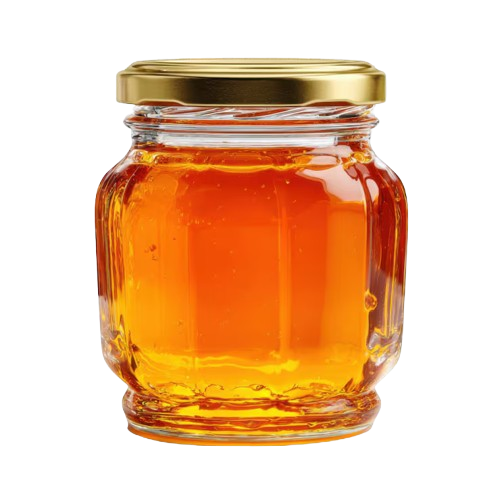
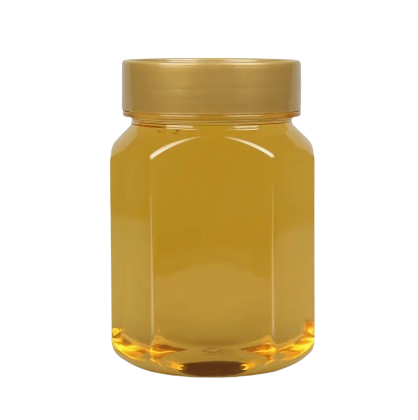
updates

diff --git a/src/presentation/components/PppSlides.vue b/src/presentation/components/PppSlides.vue
@@ -240,8 +240,15 @@ const isStaticGridPhoto = (slide, img) => Boolean(slide.staticPhotos || img.stat
         'ppp-feature__img--multi': slide.images?.length > 1,
         'ppp-feature__img--pair': slide.images?.length === 2,
         'ppp-feature__img--quad-fit': slide.quadImageFit,
+        'ppp-feature__img--pent-fit': slide.pentImageFit,
       }]">
-        <div v-if="slide.images?.length >= 4" class="ppp-feature__quad-grid">
+        <div v-if="slide.pentImageFit && slide.images?.length >= 5" class="ppp-feature__pent-grid">
+          <div v-for="(img, ii) in slide.images" :key="img.src" class="ppp-feature__pent-cell">
+            <img :src="img.src" :alt="img.caption || slide.title" class="ppp-feature__pent-img"
+              :style="{ objectPosition: img.objectPosition || 'center center' }">
+          </div>
+        </div>
+        <div v-else-if="slide.images?.length >= 4" class="ppp-feature__quad-grid">
           <div v-for="(img, ii) in slide.images" :key="img.src" class="ppp-feature__quad-cell">
             <img :src="img.src" :alt="img.caption || slide.title" class="ppp-feature__quad-img"
               :style="{ objectPosition: img.objectPosition || 'center center' }">
@@ -1350,6 +1357,73 @@ const isStaticGridPhoto = (slide, img) => Boolean(slide.staticPhotos || img.stat
   background: rgba(0, 0, 0, 0.2);
 }
 
+.ppp-feature__pent-grid {
+  display: grid;
+  grid-template-columns: repeat(6, minmax(0, 1fr));
+  grid-template-rows: 1.05fr 1fr;
+  gap: 0.35rem;
+  flex: 1 1 auto;
+  width: 100%;
+  height: 100%;
+  min-height: min(460px, 54vh);
+  padding: 0.35rem;
+  background: rgba(0, 0, 0, 0.2);
+  border-radius: 0.65rem;
+}
+
+.ppp-feature__pent-cell {
+  display: flex;
+  align-items: center;
+  justify-content: center;
+  min-width: 0;
+  min-height: 0;
+  background: rgba(255, 255, 255, 0.08);
+  border: 1px solid rgba(200, 160, 32, 0.25);
+  border-radius: 0.45rem;
+  overflow: hidden;
+}
+
+.ppp-feature__pent-cell:nth-child(1) {
+  grid-column: 1 / 4;
+  grid-row: 1;
+}
+
+.ppp-feature__pent-cell:nth-child(2) {
+  grid-column: 4 / 7;
+  grid-row: 1;
+}
+
+.ppp-feature__pent-cell:nth-child(3) {
+  grid-column: 1 / 3;
+  grid-row: 2;
+}
+
+.ppp-feature__pent-cell:nth-child(4) {
+  grid-column: 3 / 5;
+  grid-row: 2;
+}
+
+.ppp-feature__pent-cell:nth-child(5) {
+  grid-column: 5 / 7;
+  grid-row: 2;
+}
+
+.ppp-feature__pent-img {
+  width: 100%;
+  height: 100%;
+  object-fit: contain;
+  object-position: center center;
+  background: rgba(0, 0, 0, 0.48);
+  display: block;
+}
+
+.ppp-panel--feature .ppp-feature__img--pent-fit .ppp-feature__pent-img {
+  width: 88%;
+  height: 94%;
+  background: none;
+  object-fit: contain;
+}
+
 .ppp-feature__quad-grid {
   display: grid;
   grid-template-columns: repeat(2, minmax(0, 1fr));
@@ -1946,7 +2020,7 @@ const isStaticGridPhoto = (slide, img) => Boolean(slide.staticPhotos || img.stat
   background: rgba(200, 160, 32, 0.12);
   border: 1px solid rgba(200, 160, 32, 0.35);
   color: var(--gold-light);
-  font-size: 0.72rem;
+  font-size: 1rem;
   font-weight: 700;
   letter-spacing: 0.03em;
   text-transform: uppercase;

diff --git a/src/presentation/data/slides.js b/src/presentation/data/slides.js
@@ -398,7 +398,7 @@ export const slides = [
     id: "eva-compound",
     type: "feature-split",
     section: "products",
-    title: "EVA Compounds",
+    title: "We Produce: EVA Compounds",
     images: [
       {
         src: "/products/eva1.png",
@@ -453,8 +453,19 @@ export const slides = [
     id: "pvc-compound",
     type: "feature-split",
     section: "products",
-    title: "PVC Compounds",
+    title: "We Produce: PVC Compounds",
+    pentImageFit: true,
     images: [
+      {
+        src: "/products/transparent-pvc-granules.png",
+        caption: "Transparent PVC granules",
+        objectPosition: "center center",
+      },
+      {
+        src: "/products/blue-pvc-granules.png",
+        caption: "Blue PVC granules",
+        objectPosition: "center center",
+      },
       {
         src: "/pvc-2.png",
         caption: "PVC boots and footwear",
@@ -503,7 +514,7 @@ export const slides = [
     id: "rubber-compound",
     type: "feature-split",
     section: "products",
-    title: "Rubber Compound | Endure | TPR Compounds",
+    title: "We Produce: Rubber Compound | Endure | TPR Compounds",
     image: "/products/rubbercompound.png",
     features: [
       {
@@ -541,7 +552,7 @@ export const slides = [
     id: "filler-masterbatch",
     type: "feature-split",
     section: "products",
-    title: "Filler Masterbatches",
+    title: "We Produce: Filler Masterbatches",
     quadImageFit: true,
     images: [
       {
@@ -601,7 +612,7 @@ export const slides = [
     id: "masterbatch",
     type: "masterbatch-colors",
     section: "products",
-    title: "Color Masterbatches",
+    title: "We Produce: Color Masterbatches",
     subtitle: "A variety of colors, options, and shades are available.",
     images: [
       {

diff --git a/src/components/NavBar.vue b/src/components/NavBar.vue
@@ -105,6 +105,13 @@ const closeMenu = () => {
           Media
         </RouterLink>
 
+        <RouterLink to="/presentation" class="rounded-full px-4 py-2 text-sm font-semibold transition-all duration-200" :class="route.path === '/presentation'
+            ? 'bg-slate-900 text-white shadow-sm'
+            : 'text-slate-700 hover:bg-slate-100 hover:text-slate-900'
+          ">
+          Presentation
+        </RouterLink>
+
         <RouterLink :to="navItems[3].to"
           class="rounded-full px-4 py-2 text-sm font-semibold transition-all duration-200" :class="route.path === navItems[3].to
               ? 'bg-slate-900 text-white shadow-sm'
@@ -192,6 +199,13 @@ const closeMenu = () => {
               : 'text-slate-700 hover:bg-slate-100'
             " @click="closeMenu">
             Media
+          </RouterLink>
+
+          <RouterLink to="/presentation" class="rounded-lg px-4 py-2 text-left text-sm font-semibold transition" :class="route.path === '/presentation'
+              ? 'bg-slate-900 text-white'
+              : 'text-slate-700 hover:bg-slate-100'
+            " @click="closeMenu">
+            Presentation
           </RouterLink>
 
           <RouterLink :to="navItems[3].to" class="rounded-lg px-4 py-2 text-left text-sm font-semibold transition"

diff --git a/src/presentation/components/PresentationDeck.vue b/src/presentation/components/PresentationDeck.vue
@@ -85,8 +85,8 @@ onBeforeUnmount(() => {
         <div class="deck__brand-text">
           <span class="deck__meta">{{ presentationMeta.subtitle }}</span>
           <span class="deck__title">{{ presentationMeta.title }}</span>
+    </div>
         </div>
-      </div>
       <div class="deck__actions">
         <span v-if="sectionLabel" class="deck__section-pill" :class="`deck__section-pill--${currentSlide.section}`">
           {{ sectionLabel }}